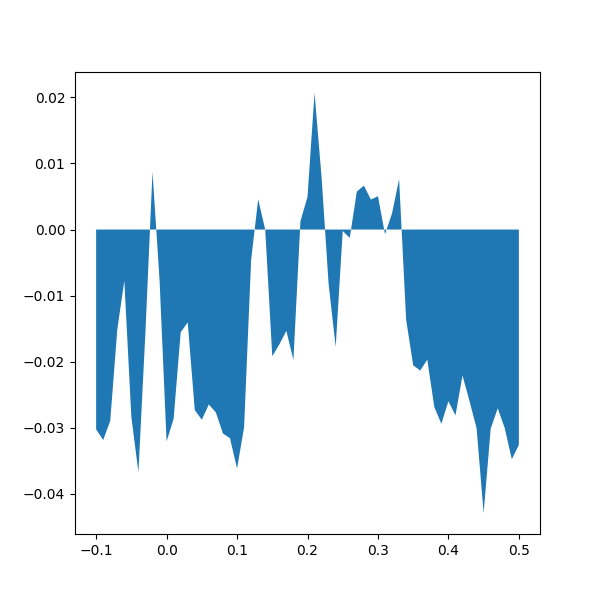
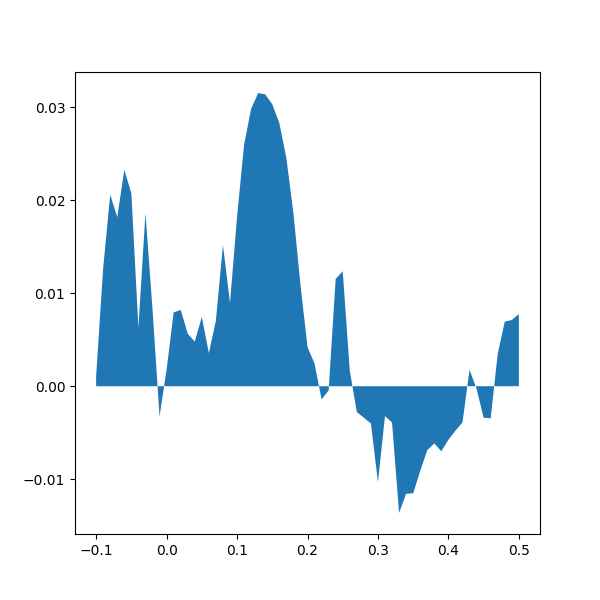
cleaner version of ph_decoding and better reporting system

diff --git a/phoneme_decoding/decoding_ph.py b/phoneme_decoding/decoding_ph.py
@@ -9,7 +9,6 @@ from sklearn.model_selection import KFold, cross_val_predict
 from sklearn.pipeline import make_pipeline
 from sklearn.preprocessing import StandardScaler, RobustScaler
 from sklearn.linear_model import RidgeCV
-from wordfreq import zipf_frequency
 from Levenshtein import editops
 
 
@@ -143,128 +142,141 @@ class PATHS:
 
 # For NS ####
 TASK = "listen"
-subject = "1"
 # To simplify for the time being
 # To run on the Neurospin workstation
 PATHS.data = Path("/home/is153802/data/BIDS_final")
 
-epochs_final = []
-ph_final = []
 
-for run_id in np.arange(1, 10):
+report = mne.Report()
 
-    bids_path = mne_bids.BIDSPath(
-        subject=subject,
-        session="01",
-        task=TASK,
-        datatype="meg",
-        root=PATHS.data,
-        run="0" + str(run_id),
-    )
+for subject in np.arange(1, 20):
+    subject = str(subject)
+    epochs_final = []
+    ph_final = []
 
-    raw = mne_bids.read_raw_bids(bids_path)
-    raw.pick_types(meg=True, stim=True)
-    raw.load_data()
-    raw = raw.filter(0.5, 20)
+    for run_id in np.arange(1, 10):
 
-    event_file = PATHS.data / f"sub-{bids_path.subject}"
-    event_file = event_file / f"ses-{bids_path.session}"
-    event_file = event_file / "meg"
-    event_file = str(event_file / f"sub-{bids_path.subject}")
-    event_file += f"_ses-{bids_path.session}"
-    event_file += f"_task-{bids_path.task}"
-    event_file += f"_run-{bids_path.run}_events.tsv"
-    print(event_file)
-    assert Path(event_file).exists()
-    # read events
-    meta = pd.read_csv(event_file, sep="\t")
-    events = mne.find_events(raw, stim_channel="STI101", shortest_event=1)
+        bids_path = mne_bids.BIDSPath(
+            subject=subject,
+            session="01",
+            task=TASK,
+            datatype="meg",
+            root=PATHS.data,
+            run="0" + str(run_id),
+        )
 
-    phonemes = meta[meta.trial_type.str.contains("phoneme")]
-    words = meta[meta.trial_type.str.contains("word")]
+        raw = mne_bids.read_raw_bids(bids_path)
+        raw.pick_types(meg=True, stim=True)
+        raw.load_data()
+        raw = raw.filter(0.5, 20)
 
-    # match events and metadata
-    word_events = events[events[:, 2] > 1]
-    meg_delta = np.round(np.diff(word_events[:, 0] / raw.info["sfreq"]))
-    meta_delta = np.round(np.diff(meta.onset.values))
+        event_file = PATHS.data / f"sub-{bids_path.subject}"
+        event_file = event_file / f"ses-{bids_path.session}"
+        event_file = event_file / "meg"
+        event_file = str(event_file / f"sub-{bids_path.subject}")
+        event_file += f"_ses-{bids_path.session}"
+        event_file += f"_task-{bids_path.task}"
+        event_file += f"_run-{bids_path.run}_events.tsv"
+        print(event_file)
+        assert Path(event_file).exists()
+        # read events
+        meta = pd.read_csv(event_file, sep="\t")
+        events = mne.find_events(raw, stim_channel="STI101", shortest_event=1)
 
-    i, j = match_list(meg_delta, meta_delta)
+        phonemes = meta[meta.trial_type.str.contains("phoneme")]
+        words = meta[meta.trial_type.str.contains("word")]
 
-    assert len(i) > 500
-    events = word_events[i]
-    # events = events[i]  # events = words_events[i]
-    meta = meta.iloc[j].reset_index()
+        # match events and metadata
+        word_events = events[events[:, 2] > 1]
+        meg_delta = np.round(np.diff(word_events[:, 0] / raw.info["sfreq"]))
+        meta_delta = np.round(np.diff(meta.onset.values))
 
-    x = (events[0][0] / raw.info["sfreq"]) - list(meta.onset)[0]
+        i, j = match_list(meg_delta, meta_delta)
 
-    events_ph = ((phonemes.onset + x) * raw.info["sfreq"]).to_numpy(dtype="int")
-    zeros = np.zeros(events_ph.shape)
-    last_c = np.ones(events_ph.shape) * 128
-    events_ph = np.stack((events_ph, zeros, last_c), axis=1)
-    events_ph = events_ph.astype("int")
-    # print(events_ph)
+        assert len(i) > 500
+        events = word_events[i]
+        # events = events[i]  # events = words_events[i]
+        meta = meta.iloc[j].reset_index()
 
-    epochs = mne.Epochs(
-        raw,
-        events_ph,
-        metadata=phonemes,
-        tmin=-0.1,
-        tmax=0.5,
-        decim=10,
-        baseline=(-0.1, 0.0),
-    )
+        x = (events[0][0] / raw.info["sfreq"]) - list(meta.onset)[0]
 
-    data = epochs.get_data()
-    epochs.load_data()
+        events_ph = ((phonemes.onset + x) * raw.info["sfreq"]).to_numpy(dtype="int")
+        zeros = np.zeros(events_ph.shape)
+        last_c = np.ones(events_ph.shape) * 128
+        events_ph = np.stack((events_ph, zeros, last_c), axis=1)
+        events_ph = events_ph.astype("int")
+        # print(events_ph)
 
-    # Scaling the data
-    n_words, n_chans, n_times = data.shape
-    vec = data.transpose(0, 2, 1).reshape(-1, n_chans)
-    scaler = RobustScaler()
-    idx = np.arange(len(vec))
-    np.random.shuffle(idx)
-    vec = scaler.fit(vec[idx[:20_000]]).transform(vec)
-    # To try: sigmas = 7 or 15
-    sigma = 7
-    vec = np.clip(vec, -sigma, sigma)
-    epochs._data[:, :, :] = (
-        scaler.inverse_transform(vec)
-        .reshape(n_words, n_times, n_chans)
-        .transpose(0, 2, 1)
-    )
+        epochs = mne.Epochs(
+            raw,
+            events_ph,
+            metadata=phonemes,
+            tmin=-0.1,
+            tmax=0.5,
+            decim=10,
+            baseline=(-0.1, 0.0),
+        )
 
-    epochs.metadata["label"] = f"run_{run_id}"
+        data = epochs.get_data()
+        epochs.load_data()
 
-    epochs_final.append(epochs)
+        # Scaling the data
+        n_words, n_chans, n_times = data.shape
+        vec = data.transpose(0, 2, 1).reshape(-1, n_chans)
+        scaler = RobustScaler()
+        idx = np.arange(len(vec))
+        np.random.shuffle(idx)
+        vec = scaler.fit(vec[idx[:20_000]]).transform(vec)
+        # To try: sigmas = 7 or 15
+        sigma = 7
+        vec = np.clip(vec, -sigma, sigma)
+        epochs._data[:, :, :] = (
+            scaler.inverse_transform(vec)
+            .reshape(n_words, n_times, n_chans)
+            .transpose(0, 2, 1)
+        )
 
-    for epo_ in epochs_final:
-        epo_.info["dev_head_t"] = epochs_final[0].info["dev_head_t"]
+        epochs.metadata["label"] = f"run_{run_id}"
 
-    # epo.info['nchan'] = epochs[0].info['nchan']
+        epochs_final.append(epochs)
 
-    voiced_ph = np.array(
-        [str(tupl).__contains__("non-voiced") for tupl in phonemes.iterrows()]
-    )
+        for epo_ in epochs_final:
+            epo_.info["dev_head_t"] = epochs_final[0].info["dev_head_t"]
 
-    ph_final.append(voiced_ph)
+        # epo.info['nchan'] = epochs[0].info['nchan']
 
+        voiced_ph = np.array(
+            [str(tupl).__contains__("non-voiced") for tupl in phonemes.iterrows()]
+        )
 
-epochs = mne.concatenate_epochs(epochs_final)
+        ph_final.append(voiced_ph)
 
-# Get the evoked potential averaged on all epochs for each channel
-evo = epochs[0].average(method="median")
-evo.plot(spatial_colors=True)
+    epochs = mne.concatenate_epochs(epochs_final)
 
-plt.savefig("./fig_evoked.png")
+    # Get the evoked potential averaged on all epochs for each channel
+    evo = epochs[0].average(method="median")
+    evo.plot(spatial_colors=True)
 
-X = epochs.get_data()  # Both mag and grad
+    report.add_evokeds(evo, titles=f"Evoked for sub {subject} ")
 
-phonemes = np.array(ph_final)
-y = phonemes.reshape((6229, 1))
-R = decod(X, y)
+    X = epochs.get_data()  # Both mag and grad
 
-fig, ax = plt.subplots(1, figsize=[6, 6])
-dec = plt.fill_between(epochs[0].times, R)
+    phonemes = np.array(ph_final)
 
+    ph_arr = phonemes[0]
 
-plt.savefig("./fig_decode.png")
+    for i in np.arange(1, 9):
+        ph_arr = np.append(ph_arr, phonemes[i])
+
+    y = ph_arr.reshape((X.shape[0], 1))
+    R = decod(X, y)
+
+    fig, ax = plt.subplots(1, figsize=[6, 6])
+    dec = plt.fill_between(epochs[0].times, R)
+
+    # plt.savefig(f"./fig_decode_sub-{subject}.png")
+
+    report.add_figure(fig, title=f"decoding for subject {subject}")
+    # report.add_figure(dec, subject, tags="word")
+    report.save("decoding_raw.html",
+                open_browser=False, overwrite=True)
